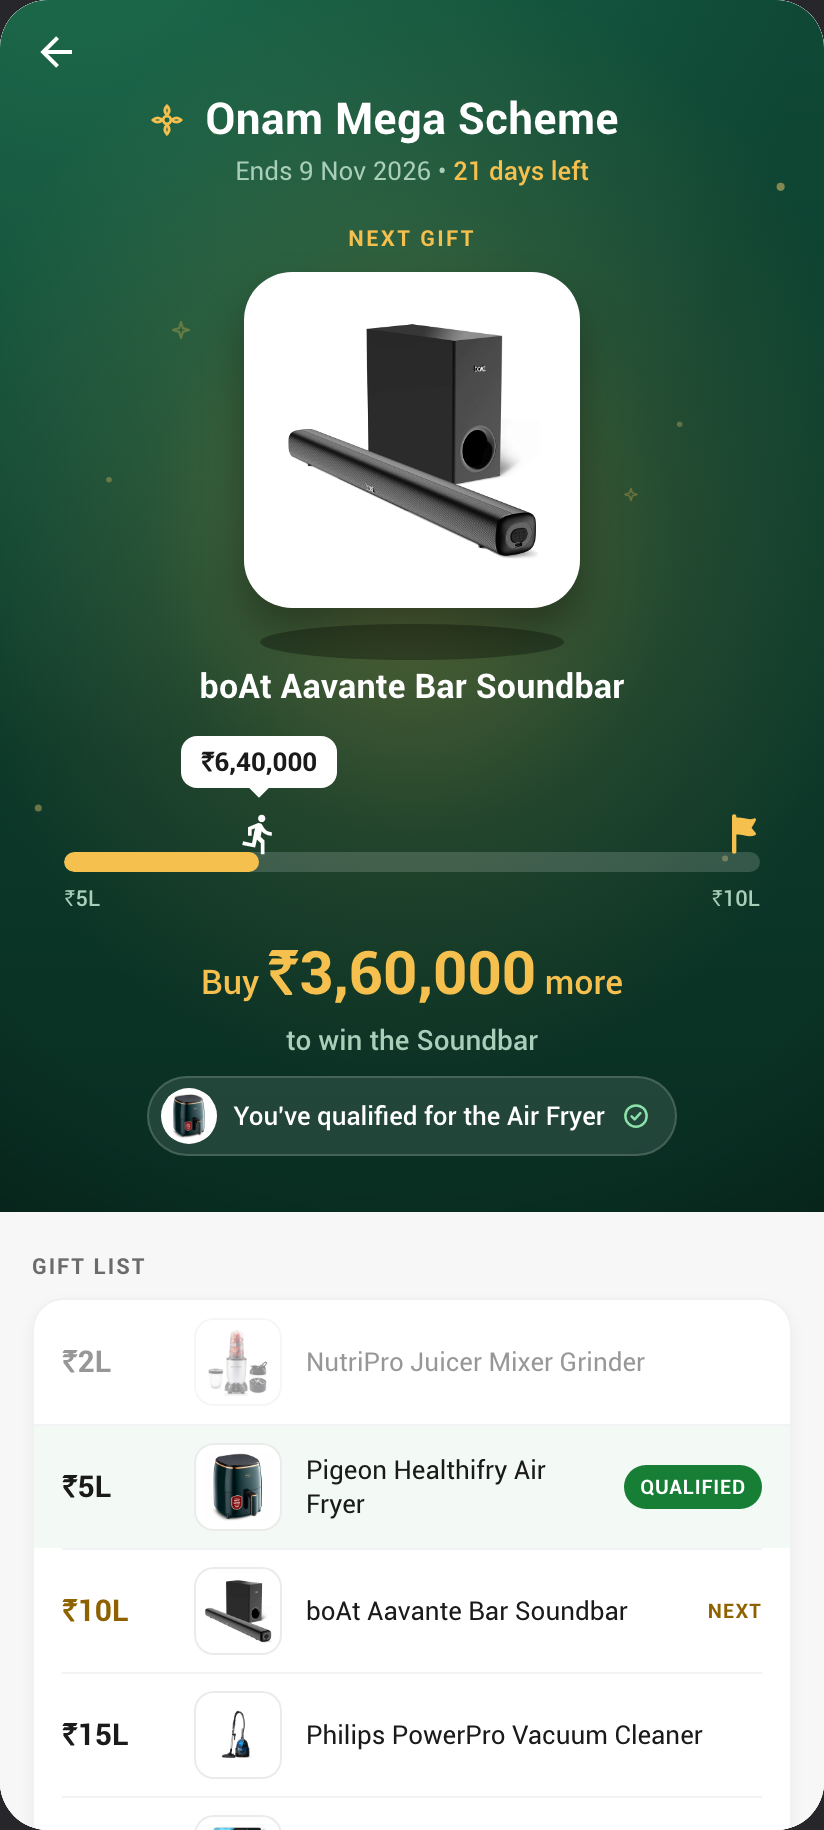
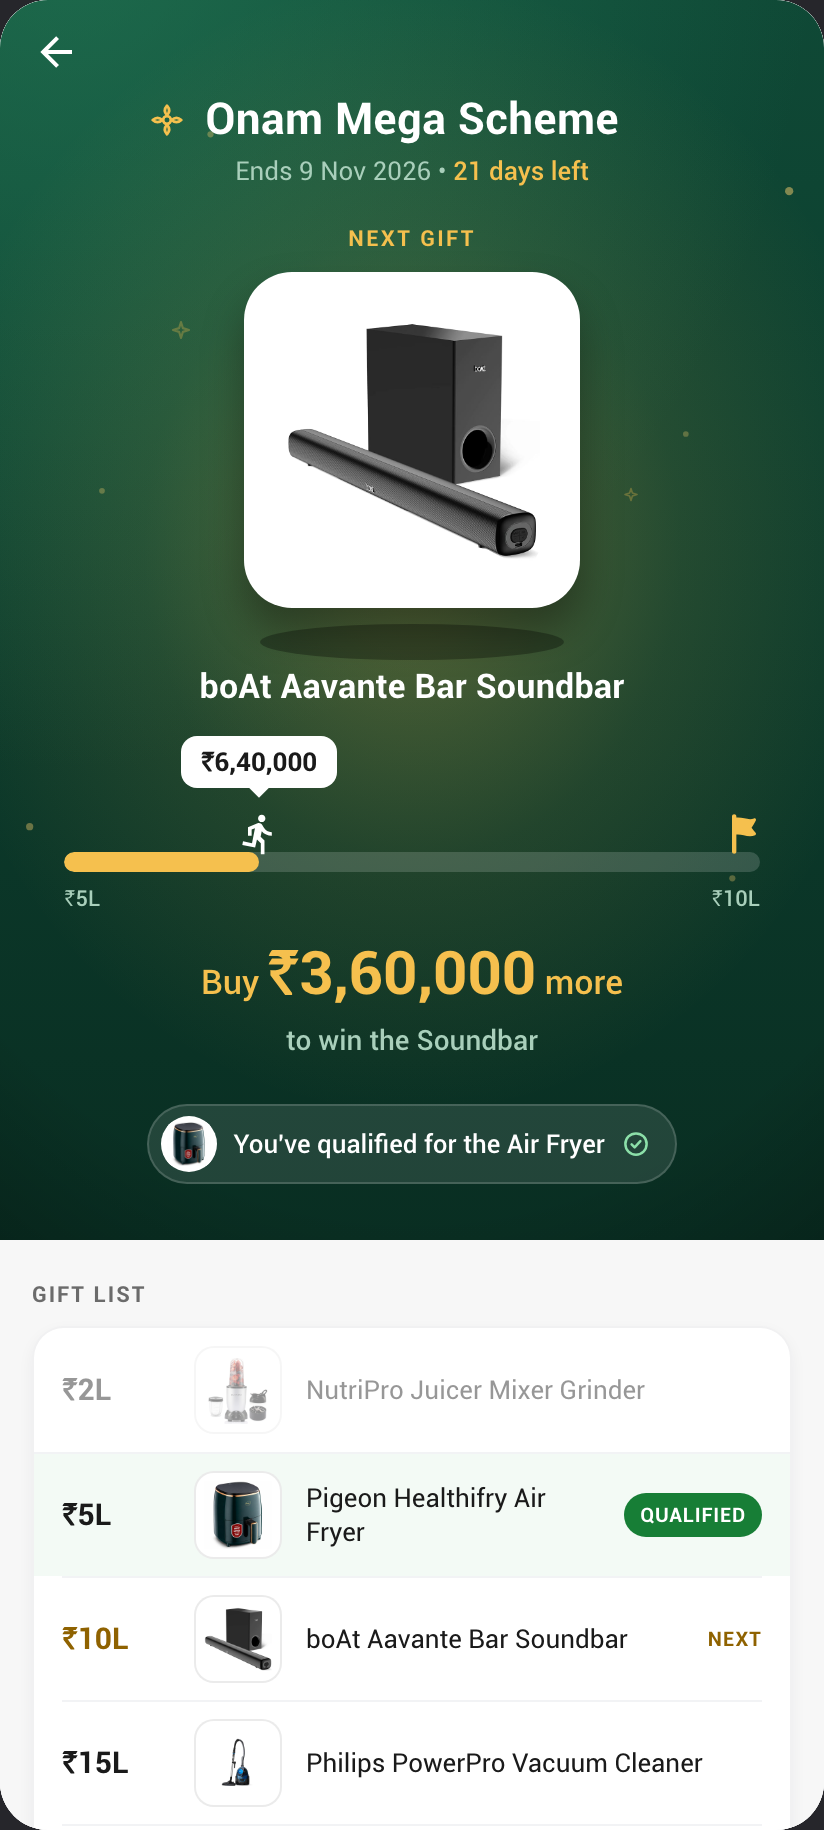
Give the qualified capsule room below the ask (8 -> 22)
The tight 20px grouping read as cramped next to the large ask type; the
capsule now sits ~34px below the payoff line, clearly its own item.

diff --git a/app/mega-diwali/index.js b/app/mega-diwali/index.js
@@ -829,7 +829,7 @@ const styles = StyleSheet.create({
   dTagText: { color: N.ink, fontFamily: F.bold, fontSize: 13, lineHeight: 16 },
   dTagCaret: { width: 9, height: 9, marginTop: -6, backgroundColor: '#fff', transform: [{ rotate: '45deg' }] },
 
-  securedWrap: { alignItems: 'center', marginTop: 8 },
+  securedWrap: { alignItems: 'center', marginTop: 22 },
 
   barZone: { marginTop: 0, marginHorizontal: 32, height: 34, justifyContent: 'flex-end' },
   barTrack: { height: 10, borderRadius: 5, overflow: 'hidden' },
